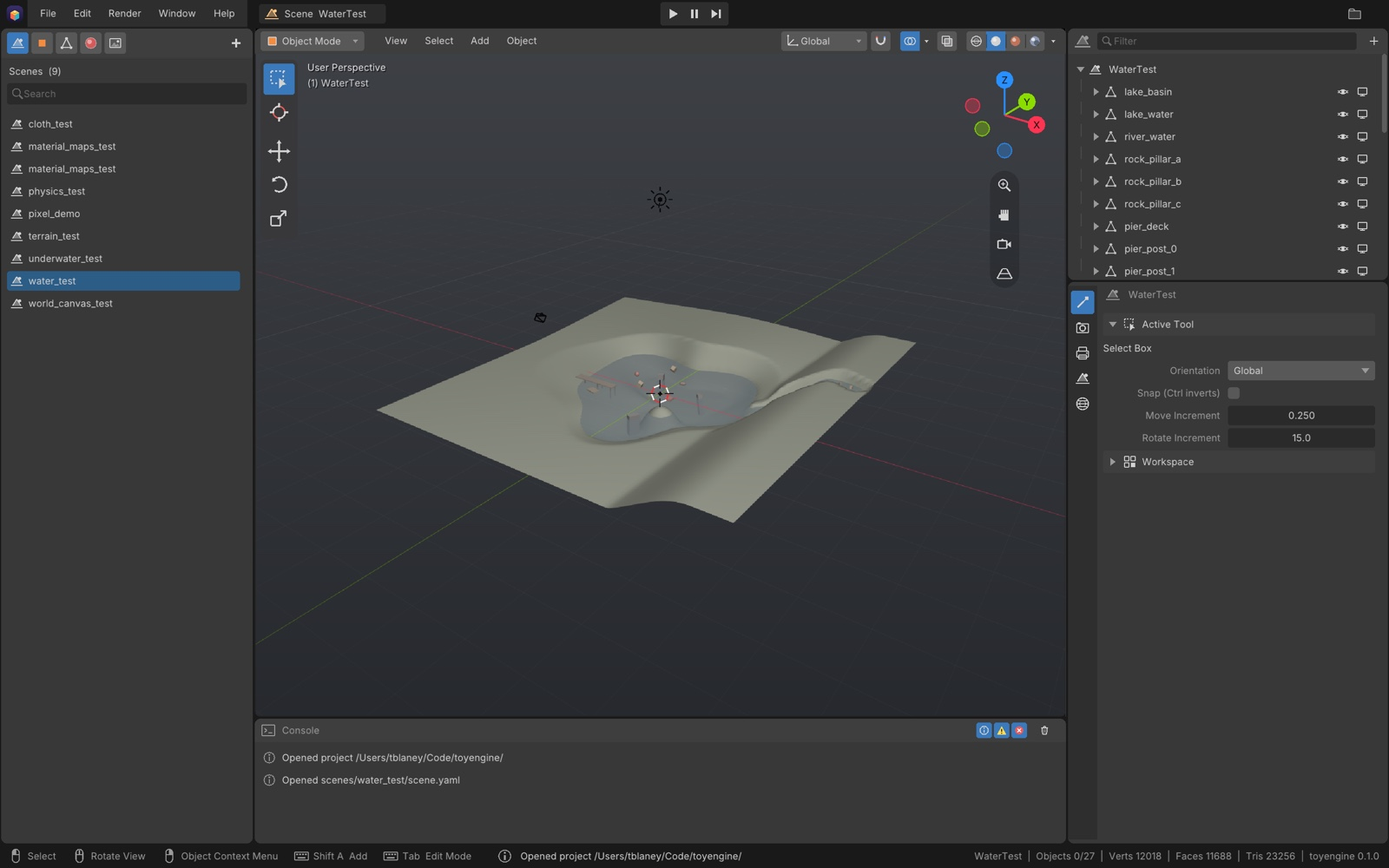
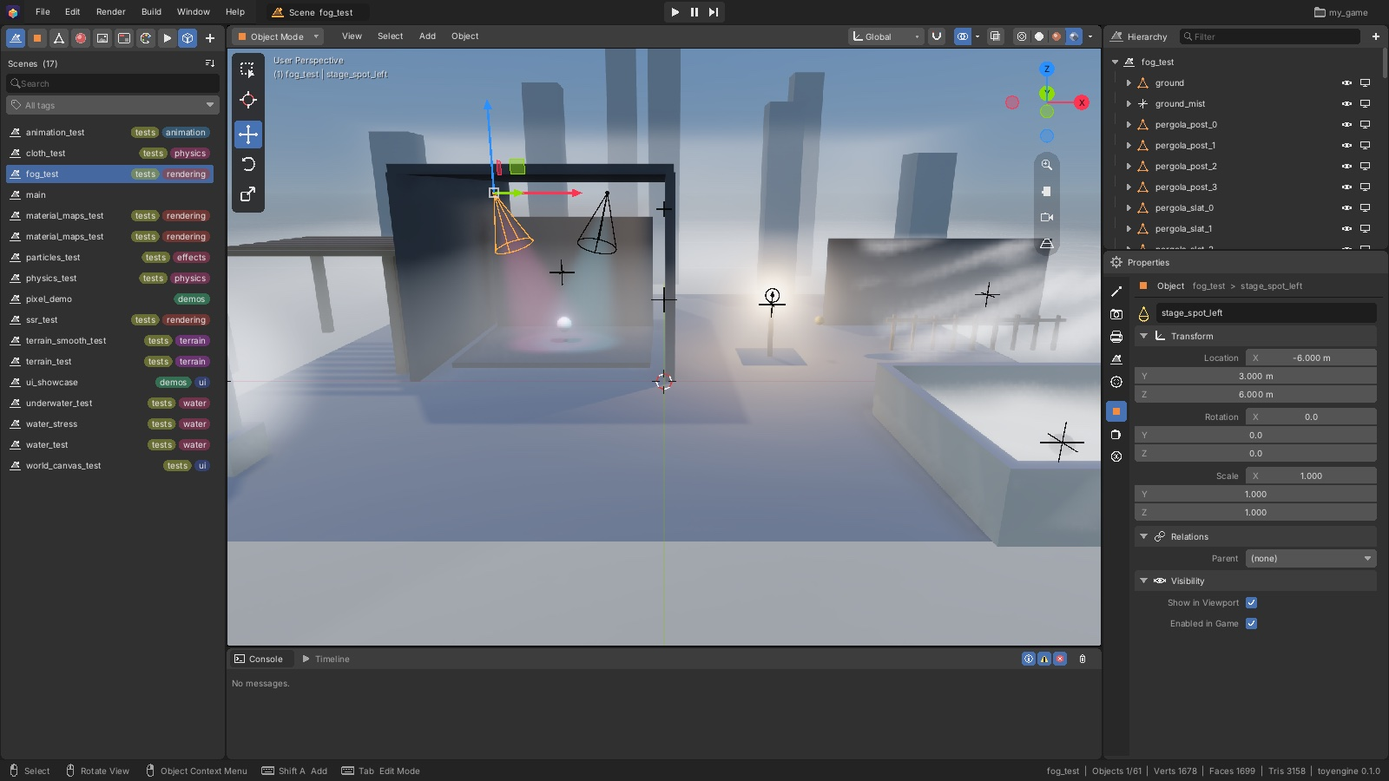
new content

diff --git a/projects/toyengine/index.html b/projects/toyengine/index.html
@@ -4,16 +4,16 @@
   <meta charset="utf-8">
   <meta name="viewport" content="width=device-width, initial-scale=1">
   <title>toyengine · coopa</title>
-  <meta name="description" content="toyengine: an open source C++20 / Vulkan 3D game engine with deferred PBR, physics, water, streamed procedural terrain and a Blender-style editor.">
+  <meta name="description" content="toyengine: an open source C++20 / Vulkan 3D game engine with deferred PBR, volumetrics, particles, physics, water, streamed procedural terrain, audio and a Blender-style editor.">
   <meta name="theme-color" content="#0f0f12">
   <meta property="og:title" content="toyengine · coopa">
   <meta property="og:description" content="A modern C++20 / Vulkan 3D game engine with a Blender-style editor.">
-  <meta property="og:image" content="../../assets/img/toyengine/water_test.jpg">
+  <meta property="og:image" content="../../assets/img/toyengine/particles_test.jpg">
   <link rel="icon" type="image/svg+xml" href="../../assets/favicon.svg">
   <link rel="preconnect" href="https://fonts.googleapis.com">
   <link rel="preconnect" href="https://fonts.gstatic.com" crossorigin>
   <link href="https://fonts.googleapis.com/css2?family=JetBrains+Mono:wght@400;600&family=Space+Grotesk:wght@400;500;600;700&display=swap" rel="stylesheet">
-  <link rel="stylesheet" href="../../style.css?v=4">
+  <link rel="stylesheet" href="../../style.css?v=5">
 </head>
 <body>
 
@@ -46,13 +46,14 @@
           <p class="eyebrow">Flagship project · open source · v0.1.0</p>
           <h1>toyengine</h1>
           <p class="sub">A modern C++20 / Vulkan 3D game engine with a Blender-style editor.</p>
-          <div class="tags"><span class="tag">C++20</span><span class="tag">Vulkan</span><span class="tag">MoltenVK</span><span class="tag">Linux</span><span class="tag">macOS</span><span class="tag">YAML scenes</span></div>
+          <div class="tags"><span class="tag">C++20</span><span class="tag">Vulkan</span><span class="tag">MoltenVK</span><span class="tag">Linux</span><span class="tag">macOS</span><span class="tag">YAML scenes</span><span class="tag">editor + hub</span></div>
         </div>
       </div>
       <p class="prose">
-        toyengine pairs a full-resolution deferred PBR renderer with rigid-body and cloth physics,
-        dynamic water, streamed procedural terrain, an interactive UI toolkit and a native editor
-        that writes exactly the files the game loads. It is <em>adaptable</em> by design: scenes,
+        toyengine pairs a full-resolution deferred PBR renderer with volumetric fog and light,
+        particles, rigid-body and cloth physics, dynamic water, streamed procedural terrain,
+        animation, 3D audio, an interactive UI toolkit and a native editor that writes exactly the
+        files the game loads. It is <em>adaptable</em> by design: scenes,
         objects, materials and render settings are plain YAML, every rendering feature has quality
         tiers and a master switch, and each subsystem is its own library that can be lifted out and
         used elsewhere.
@@ -69,17 +70,22 @@
   <section class="section" style="padding-top: 20px">
     <div class="wrap">
       <figure class="shot reveal">
-        <img src="../../assets/img/toyengine/water_test.jpg" alt="A lake with Gerstner waves, shoreline foam, a river and floating crates" data-zoom>
-        <figcaption><b>water_test</b>: lake, river, foam, ripples, buoyant crates</figcaption>
+        <img src="../../assets/img/toyengine/particles_test.jpg" alt="A campfire at dusk: flames, lit smoke, embers, a torch trail and scattered mushrooms" data-zoom>
+        <figcaption><b>particles_test</b>: flames, lit smoke, embers, a torch trail, mesh scatter</figcaption>
       </figure>
 
+      <div class="gallery gallery-2">
+        <figure class="reveal"><img src="../../assets/img/toyengine/water_test.jpg" alt="A lake with Gerstner waves, shoreline foam, a river and floating crates" loading="lazy" data-zoom><figcaption><b>water_test</b>: waves, foam, a flowing river, buoyant crates</figcaption></figure>
+        <figure class="reveal"><img src="../../assets/img/toyengine/fog_test.jpg" alt="Volumetric spotlights in stage haze, a lantern halo and drifting ground mist" loading="lazy" data-zoom><figcaption><b>fog_test</b>: global fog, local volumes, volumetric light</figcaption></figure>
+      </div>
+
       <div class="gallery">
-        <figure class="reveal"><img src="../../assets/img/toyengine/terrain_test.jpg" alt="Streamed procedural tile terrain" loading="lazy" data-zoom><figcaption><b>terrain_test</b>: streamed procedural world</figcaption></figure>
+        <figure class="reveal"><img src="../../assets/img/toyengine/ssr_test.jpg" alt="Screen-space reflections across mirror, glossy and rough floor strips" loading="lazy" data-zoom><figcaption><b>ssr_test</b>: Hi-Z reflections, mirror to rough</figcaption></figure>
         <figure class="reveal"><img src="../../assets/img/toyengine/underwater_test.jpg" alt="Underwater fog, caustics and Snell's window" loading="lazy" data-zoom><figcaption><b>underwater_test</b>: caustics, Snell's window</figcaption></figure>
         <figure class="reveal"><img src="../../assets/img/toyengine/pixel_demo.jpg" alt="PBR materials, glass, emissive and water" loading="lazy" data-zoom><figcaption><b>pixel_demo</b>: PBR, refraction, SDFs, bloom</figcaption></figure>
+        <figure class="reveal"><img src="../../assets/img/toyengine/terrain_test.jpg" alt="Streamed procedural tile terrain" loading="lazy" data-zoom><figcaption><b>terrain_test</b>: streamed procedural world</figcaption></figure>
         <figure class="reveal"><img src="../../assets/img/toyengine/physics_test.jpg" alt="Rigid-body physics arena" loading="lazy" data-zoom><figcaption><b>physics_test</b>: stacking, hinges, triggers</figcaption></figure>
         <figure class="reveal"><img src="../../assets/img/toyengine/cloth_test.jpg" alt="XPBD cloth draped over a moving ball" loading="lazy" data-zoom><figcaption><b>cloth_test</b>: XPBD cloth</figcaption></figure>
-        <figure class="reveal"><img src="../../assets/img/toyengine/editor.jpg" alt="toyengine_editor with the water_test scene open" loading="lazy" data-zoom><figcaption><b>toyengine_editor</b></figcaption></figure>
       </div>
     </div>
   </section>
@@ -88,7 +94,7 @@
   <section class="strip" aria-label="At a glance">
     <div class="wrap strip-inner">
       <div><b>Deferred</b><span>PBR renderer</span></div>
-      <div><b>9</b><span>demo scenes</span></div>
+      <div><b>15</b><span>demo scenes</span></div>
       <div><b>7</b><span>coopa libraries</span></div>
       <div><b>2</b><span>platforms: Linux + macOS</span></div>
       <div><b>.caml</b><span>packaged builds</span></div>
@@ -100,19 +106,27 @@
     <div class="wrap">
       <div class="section-head reveal">
         <p class="eyebrow">What's inside</p>
-        <h2>Rendering, simulation and worlds</h2>
+        <h2>Rendering, simulation, worlds and sound</h2>
       </div>
       <div class="grid-3">
         <article class="card reveal">
           <svg class="icon" aria-hidden="true"><use href="../../assets/icons.svg#i-render"/></svg>
           <h4>Rendering</h4>
           <ul>
-            <li>Deferred PBR: Cook-Torrance with directional, point and spot lights</li>
-            <li>Cascaded shadows, soft PCF, PCSS and contact shadows</li>
-            <li>Hi-Z SSR, traced SSGI, temporally stable SSAO</li>
-            <li>SDF raymarching that mixes with meshes; volumetric light shafts</li>
-            <li>Bloom, auto exposure, LUTs, physical DoF, TAA / SMAA / FXAA</li>
-            <li>Optional cel bands, outlines, dithering and palette quantisation</li>
+            <li>Deferred PBR: Cook-Torrance with directional, point and spot lights, sky and environment</li>
+            <li>Cascaded sun shadows with cascade blending; many shadowed local lights in one atlas, with static casters cached</li>
+            <li>Soft PCF, optional PCSS and single-ray contact shadows</li>
+            <li>Hi-Z SSR, traced SSGI and GTAO-style SSAO, with per-object motion vectors feeding the temporal filters and TAA</li>
+            <li>Bloom, auto exposure, LUTs, physical DoF, tilt-shift, TAA / SMAA / FXAA</li>
+          </ul>
+        </article>
+        <article class="card reveal">
+          <svg class="icon" aria-hidden="true"><use href="../../assets/icons.svg#i-fog"/></svg>
+          <h4>Volumetrics and fog</h4>
+          <ul>
+            <li>Global analytic height fog</li>
+            <li>Local fog volumes, box or sphere: pockets, drifting haze, wind ribbons</li>
+            <li>Sun shafts that respect shadows, plus visible spotlight cones and lantern halos</li>
           </ul>
         </article>
         <article class="card reveal">
@@ -127,20 +141,23 @@
           </ul>
         </article>
         <article class="card reveal">
+          <svg class="icon" aria-hidden="true"><use href="../../assets/icons.svg#i-fire"/></svg>
+          <h4>Particles</h4>
+          <ul>
+            <li>Unity-style modules: bursts, shapes, forces, curl-noise turbulence, colour and size over life, collision, sub-emitters</li>
+            <li>Blender-style emission from mesh faces, vertices or edges, and a hair-like scatter mode for instanced meshes</li>
+            <li>Simulated on the job system; sorted, instanced and soft-faded in the transparent pass with HDR glow</li>
+            <li><code>LightFlicker</code> for firelight</li>
+          </ul>
+        </article>
+        <article class="card reveal">
           <svg class="icon" aria-hidden="true"><use href="../../assets/icons.svg#i-physics"/></svg>
-          <h4>Physics</h4>
+          <h4>Physics and cloth</h4>
           <ul>
             <li>Box, sphere, capsule and triangle-mesh colliders</li>
             <li>Physics materials, hinge joints, triggers, collision layers</li>
             <li>Kinematic movers and character controllers</li>
-          </ul>
-        </article>
-        <article class="card reveal">
-          <svg class="icon" aria-hidden="true"><use href="../../assets/icons.svg#i-cloth"/></svg>
-          <h4>Cloth</h4>
-          <ul>
-            <li>XPBD cloth that collides with the world</li>
-            <li>Renders as a shaded, shadow-casting mesh</li>
+            <li>XPBD cloth that collides with the world and renders as a shaded, shadow-casting mesh</li>
           </ul>
         </article>
         <article class="card reveal">
@@ -153,11 +170,30 @@
           </ul>
         </article>
         <article class="card reveal">
+          <svg class="icon" aria-hidden="true"><use href="../../assets/icons.svg#i-anim"/></svg>
+          <h4>Animation</h4>
+          <ul>
+            <li>Keyframed clips on object-hierarchy rigs, driven by an <code>Animator</code> with states</li>
+            <li>Skinned meshes that bend with vertex-group weights</li>
+            <li>Keyed in the editor's timeline and dope sheet with record mode and auto-keying</li>
+          </ul>
+        </article>
+        <article class="card reveal">
           <svg class="icon" aria-hidden="true"><use href="../../assets/icons.svg#i-ui"/></svg>
           <h4>UI toolkit</h4>
           <ul>
             <li>Panels, text, buttons, sliders, progress bars, layouts, masks</li>
+            <li>Themed composites: windows, menus, stat bars, hotbars, setting rows</li>
             <li>Crisp screen-space HUDs, or world-space canvases that stay clickable in 3D</li>
+          </ul>
+        </article>
+        <article class="card reveal">
+          <svg class="icon" aria-hidden="true"><use href="../../assets/icons.svg#i-audio"/></svg>
+          <h4>Audio</h4>
+          <ul>
+            <li>WAV and MP3 clips through a bus mixer (Master, Music, SFX, UI)</li>
+            <li>Binaural 3D panning, distance falloff and doppler</li>
+            <li><code>AudioSource</code> and <code>AudioListener</code> components; settings sliders bind straight to buses</li>
           </ul>
         </article>
       </div>
@@ -176,15 +212,27 @@
         </p>
         <ul class="ticks">
           <li><b>Scenes and object assets.</b> Hierarchy, inspector, gizmos, and play / pause / step in place. Prefab-style assets are instanced with <code>prefab:</code>.</li>
-          <li><b>Mesh modelling.</b> Extrude, inset, bevel, loop cut, bridge, Catmull-Clark subdivide, mirror and UVs. Sculpting with draw, smooth, inflate, grab and flatten.</li>
-          <li><b>Material lookdev.</b> Shader ball, studio lighting, turntable.</li>
-          <li><b>Build › Package.</b> Turns a project into compact <code>.caml</code> binaries.</li>
+          <li><b>Mesh modelling.</b> Extrude, inset, bevel, loop cut and slide, bridge, Catmull-Clark subdivide, mirror and UVs. Sculpt, vertex paint and weight paint modes.</li>
+          <li><b>Animation.</b> A timeline and dope sheet with record mode: move a rig and the changed channels are keyed.</li>
+          <li><b>Material lookdev and UI design.</b> A shader ball with studio lighting, and a UI designer drawn by the game's own UI pass.</li>
+          <li><b>Render and project settings,</b> applied live.</li>
           <li><b>Plain files.</b> Everything saves as YAML in <code>assets/</code>, ready to hand-edit, diff and merge.</li>
         </ul>
       </div>
       <div class="window reveal">
-        <div class="window-bar"><i></i><i></i><i></i><span class="mono">toyengine_editor · WaterTest</span></div>
-        <img src="../../assets/img/toyengine/editor.jpg" alt="toyengine_editor showing the water_test scene, outliner and properties" loading="lazy" data-zoom>
+        <div class="window-bar"><i></i><i></i><i></i><span class="mono">toyengine_editor · fog_test</span></div>
+        <img src="../../assets/img/toyengine/editor.jpg" alt="toyengine_editor with fog_test in Full Render and a stage spotlight selected" loading="lazy" data-zoom>
+      </div>
+    </div>
+
+    <div class="wrap" style="margin-top: 64px">
+      <div class="gallery">
+        <figure class="reveal"><img src="../../assets/img/toyengine/editor/edit_mode.jpg" alt="Edit Mode on a loop-cut cube with its top face selected" loading="lazy" data-zoom><figcaption><b>Edit Mode</b>: extrude, bevel, loop cut, UVs</figcaption></figure>
+        <figure class="reveal"><img src="../../assets/img/toyengine/editor/sculpt.jpg" alt="Sculpt Mode with the draw brush and X mirror on a sphere" loading="lazy" data-zoom><figcaption><b>Sculpt</b>: draw, smooth, inflate, grab, flatten</figcaption></figure>
+        <figure class="reveal"><img src="../../assets/img/toyengine/editor/weight_paint.jpg" alt="Weight Paint Mode showing vertex-group weights as a heatmap" loading="lazy" data-zoom><figcaption><b>Weight Paint</b>: vertex groups for skinning</figcaption></figure>
+        <figure class="reveal"><img src="../../assets/img/toyengine/editor/timeline.jpg" alt="The timeline and dope sheet keying a robot arm rig" loading="lazy" data-zoom><figcaption><b>Timeline</b>: dope sheet, record, auto-key</figcaption></figure>
+        <figure class="reveal"><img src="../../assets/img/toyengine/editor/material_editor.jpg" alt="The material editor previewing a brick material on a shader ball" loading="lazy" data-zoom><figcaption><b>Materials</b>: shader ball lookdev</figcaption></figure>
+        <figure class="reveal"><img src="../../assets/img/toyengine/editor/ui_designer.jpg" alt="The UI designer editing a game HUD with a selected hotbar" loading="lazy" data-zoom><figcaption><b>UI designer</b>: HUDs and menus</figcaption></figure>
       </div>
     </div>
   </section>
@@ -234,8 +282,8 @@
         <div class="term mono">
           <div><span class="prompt">$</span>git clone --recurse-submodules git@github.com:cooparobla/toyengine.git</div>
           <div><span class="prompt">$</span>cmake -B build &amp;&amp; cmake --build build -j</div>
-          <div><span class="prompt">$</span>./build/toyengine water_test</div>
-          <div><span class="prompt">$</span>./build/toyengine_editor</div>
+          <div><span class="prompt">$</span>./build/toyengine particles_test</div>
+          <div><span class="prompt">$</span>./build/toyengine_hub</div>
           <button class="copy" data-copy="git clone --recurse-submodules git@github.com:cooparobla/toyengine.git&#10;cd toyengine&#10;cmake -B build &amp;&amp; cmake --build build -j" aria-label="Copy build commands"><svg aria-hidden="true"><use href="../../assets/icons.svg#i-copy"/></svg></button>
         </div>
         <p class="prose" style="font-size: .92rem; margin-top: 14px">On macOS, run <code>tools/setup_macos.sh</code> once first to install MoltenVK, the Vulkan loader, <code>glslc</code> and GLFW.</p>
@@ -243,8 +291,33 @@
     </div>
   </section>
 
+  <!-- ───────── Projects and shipping ───────── -->
+  <section id="ship" class="section section-alt">
+    <div class="wrap split">
+      <div class="reveal">
+        <p class="eyebrow">Projects and shipping</p>
+        <h2>From a new project to a <span class="grad">signed build</span></h2>
+        <p class="prose">
+          A game lives in its own project folder with its assets and C++ components. The project
+          builds the engine alongside its own code, either pinned to a pushed commit for
+          reproducible builds or linked to a local checkout for working on both at once.
+        </p>
+        <ul class="ticks">
+          <li><b>toyengine Hub.</b> Creates, adds, opens and re-pins projects, and streams the first build into its log.</li>
+          <li><b>Your code in the editor.</b> Components in <code>src/</code> compile into both the game and the editor, so Play runs them. <b>Build › Refresh</b> rebuilds both.</li>
+          <li><b>Build.</b> A standalone game that runs without the engine repo or the Vulkan SDK: a <code>.app</code> on macOS with MoltenVK bundled, a folder on Linux.</li>
+          <li><b>Development or Shipping.</b> Shipping is a Release build with encoded <code>.caml</code> assets, debug hooks off, and Developer ID signing with notarization on macOS.</li>
+        </ul>
+      </div>
+      <div class="window reveal">
+        <div class="window-bar"><i></i><i></i><i></i><span class="mono">toyengine Hub</span></div>
+        <img src="../../assets/img/toyengine/getting_started_hub.jpg" alt="The toyengine hub listing a new linked project" loading="lazy" data-zoom>
+      </div>
+    </div>
+  </section>
+
   <!-- ───────── Stack ───────── -->
-  <section id="stack" class="section section-alt">
+  <section id="stack" class="section">
     <div class="wrap">
       <div class="center reveal">
         <p class="eyebrow">The coopa stack</p>

diff --git a/index.html b/index.html
@@ -4,16 +4,16 @@
   <meta charset="utf-8">
   <meta name="viewport" content="width=device-width, initial-scale=1">
   <title>coopa · render + game engine engineering</title>
-  <meta name="description" content="coopa (cooparobla): real-time rendering and game engine engineering. Home of toyengine, a C++20 / Vulkan 3D engine, and mapcoopa, a seeded fantasy world generator.">
+  <meta name="description" content="coopa (cooparobla): real-time rendering and game engine engineering. Home of toyengine, a C++20 / Vulkan 3D engine with a Blender-style editor, and mapcoopa, a seeded fantasy world generator.">
   <meta name="theme-color" content="#0f0f12">
   <meta property="og:title" content="coopa · render + game engine engineering">
   <meta property="og:description" content="toyengine, a C++20 / Vulkan 3D game engine with a Blender-style editor, and mapcoopa, a seeded world generator.">
-  <meta property="og:image" content="assets/img/toyengine/water_test.jpg">
+  <meta property="og:image" content="assets/img/toyengine/particles_test.jpg">
   <link rel="icon" type="image/svg+xml" href="assets/favicon.svg">
   <link rel="preconnect" href="https://fonts.googleapis.com">
   <link rel="preconnect" href="https://fonts.gstatic.com" crossorigin>
   <link href="https://fonts.googleapis.com/css2?family=JetBrains+Mono:wght@400;600&family=Space+Grotesk:wght@400;500;600;700&display=swap" rel="stylesheet">
-  <link rel="stylesheet" href="style.css?v=4">
+  <link rel="stylesheet" href="style.css?v=5">
 </head>
 <body>
 
@@ -43,14 +43,14 @@
       <p class="eyebrow"><span class="dot"></span>open source · C++20 · Vulkan</p>
       <h1>Rendering <span class="plus">+</span> Game Engine <span class="grad">Engineering</span></h1>
       <p class="lede">
-        <b>toyengine</b> is a 3D game engine with a deferred PBR renderer, physics, dynamic water and a
-        Blender-style editor. <b>mapcoopa</b> generates whole fantasy worlds from a single seed.
+        <b>toyengine</b> is a 3D game engine with a deferred PBR renderer, volumetric fog, particles,
+        physics, dynamic water and a Blender-style editor. <b>mapcoopa</b> generates whole fantasy worlds from a single seed.
       </p>
       <div class="cta">
         <a class="btn btn-primary" href="projects/toyengine/">toyengine <svg aria-hidden="true"><use href="assets/icons.svg#i-arrow"/></svg></a>
         <a class="btn btn-ghost" href="projects/mapcoopa/">mapcoopa <svg aria-hidden="true"><use href="assets/icons.svg#i-arrow"/></svg></a>
       </div>
-      <p class="hero-term mono" aria-hidden="true"><span class="prompt">$</span><span id="typed" data-lines='["./build/toyengine water_test","./build/mapcoopa --seed=42 --out=world","./build/toyengine terrain_test","./build/toyengine_editor --new-project ~/game","./build/mapcoopa --shape=archipelago --out=islands","./build/toyengine underwater_test"]'>./build/toyengine water_test</span><span class="caret"></span></p>
+      <p class="hero-term mono" aria-hidden="true"><span class="prompt">$</span><span id="typed" data-lines='["./build/toyengine particles_test","./build/mapcoopa --seed=42 --out=world","./build/toyengine fog_test","./build/toyengine_hub","./build/toyengine water_test","./build/mapcoopa --shape=archipelago --out=islands","./build/toyengine underwater_test"]'>./build/toyengine particles_test</span><span class="caret"></span></p>
     </div>
     <p class="hero-note mono">↖ Gerstner waves on a grid of blocks. Move the cursor to make ripples.</p>
   </section>
@@ -59,7 +59,7 @@
   <section class="strip" aria-label="Disciplines">
     <div class="wrap strip-inner">
       <div><b>Rendering</b><span>deferred PBR · Vulkan</span></div>
-      <div><b>Simulation</b><span>rigid bodies · cloth · water</span></div>
+      <div><b>Simulation</b><span>physics · cloth · water · particles</span></div>
       <div><b>Procedural</b><span>seeded worlds · terrain</span></div>
       <div><b>Tools</b><span>editors · pipelines</span></div>
       <div><b>Engines</b><span>C++20 · header-only libs</span></div>
@@ -77,10 +77,10 @@
       <div class="projects">
         <a class="project-card reveal" href="projects/toyengine/">
           <span class="badge">Flagship</span>
-          <div class="thumb"><img src="assets/img/toyengine/water_test.jpg" alt="toyengine water_test scene: a lake with waves, foam and floating crates" loading="lazy"></div>
+          <div class="thumb"><img src="assets/img/toyengine/particles_test.jpg" alt="toyengine particles_test scene: a campfire at dusk with flames, lit smoke and embers" loading="lazy"></div>
           <div class="body">
             <div class="title"><svg aria-hidden="true"><use href="assets/icons.svg#i-brick"/></svg><h3>toyengine</h3></div>
-            <p>A modern C++20 / Vulkan 3D game engine with a Blender-style editor. Deferred PBR, rigid-body and cloth physics, dynamic water, streamed procedural terrain, and an editor that writes exactly the files the game loads.</p>
+            <p>A modern C++20 / Vulkan 3D game engine with a Blender-style editor. Deferred PBR, volumetric fog and light, particles, rigid-body and cloth physics, dynamic water, streamed procedural terrain, animation and 3D audio, plus an editor that writes exactly the files the game loads and builds signed, standalone games.</p>
             <div class="tags"><span class="tag">C++20</span><span class="tag">Vulkan</span><span class="tag">editor</span><span class="tag">Linux · macOS</span></div>
             <span class="more">Explore toyengine <svg aria-hidden="true"><use href="assets/icons.svg#i-arrow"/></svg></span>
           </div>

diff --git a/style.css b/style.css
@@ -200,6 +200,7 @@ figcaption b { color: var(--violet-200); font-weight: 600; }
 .gallery { display: grid; grid-template-columns: repeat(3, 1fr); gap: 18px; }
 .gallery img { aspect-ratio: 16 / 10; object-fit: cover; width: 100%; }
 .gallery.square img { aspect-ratio: 1; }
+.gallery.gallery-2 { grid-template-columns: repeat(2, 1fr); margin-bottom: 18px; }
 .split-shot { display: grid; grid-template-columns: 1fr 1fr; gap: 48px; align-items: center; }
 .split-shot .shot { margin: 0; }
 
@@ -426,7 +427,7 @@ pre code { background: none; border: 0; padding: 0; border-radius: 0; color: inh
   .page-head { padding-top: 110px; }
   .strip-inner { grid-template-columns: repeat(2, 1fr); }
   .strip-inner div:last-child:nth-child(odd) { grid-column: span 2; }
-  .gallery, .grid-2, .grid-3, .grid-4, .brick-row, .brick-row-base, .pager { grid-template-columns: 1fr; }
+  .gallery, .gallery.gallery-2, .grid-2, .grid-3, .grid-4, .brick-row, .brick-row-base, .pager { grid-template-columns: 1fr; }
   .project-head { flex-direction: column; align-items: flex-start; gap: 16px; }
   .project-icon { width: 76px; height: 76px; border-radius: 20px; }
   .project-icon svg { width: 48px; height: 48px; }

diff --git a/projects/mapcoopa/index.html b/projects/mapcoopa/index.html
@@ -13,7 +13,7 @@
   <link rel="preconnect" href="https://fonts.googleapis.com">
   <link rel="preconnect" href="https://fonts.gstatic.com" crossorigin>
   <link href="https://fonts.googleapis.com/css2?family=JetBrains+Mono:wght@400;600&family=Space+Grotesk:wght@400;500;600;700&display=swap" rel="stylesheet">
-  <link rel="stylesheet" href="../../style.css?v=4">
+  <link rel="stylesheet" href="../../style.css?v=5">
 </head>
 <body>
 

diff --git a/about/index.html b/about/index.html
@@ -12,7 +12,7 @@
   <link rel="preconnect" href="https://fonts.googleapis.com">
   <link rel="preconnect" href="https://fonts.gstatic.com" crossorigin>
   <link href="https://fonts.googleapis.com/css2?family=JetBrains+Mono:wght@400;600&family=Space+Grotesk:wght@400;500;600;700&display=swap" rel="stylesheet">
-  <link rel="stylesheet" href="../style.css?v=4">
+  <link rel="stylesheet" href="../style.css?v=5">
 </head>
 <body>
 

diff --git a/docs/index.html b/docs/index.html
@@ -10,7 +10,7 @@
   <link rel="preconnect" href="https://fonts.googleapis.com">
   <link rel="preconnect" href="https://fonts.gstatic.com" crossorigin>
   <link href="https://fonts.googleapis.com/css2?family=JetBrains+Mono:wght@400;600&family=Space+Grotesk:wght@400;500;600;700&display=swap" rel="stylesheet">
-  <link rel="stylesheet" href="../style.css?v=4">
+  <link rel="stylesheet" href="../style.css?v=5">
 </head>
 <body>
 
